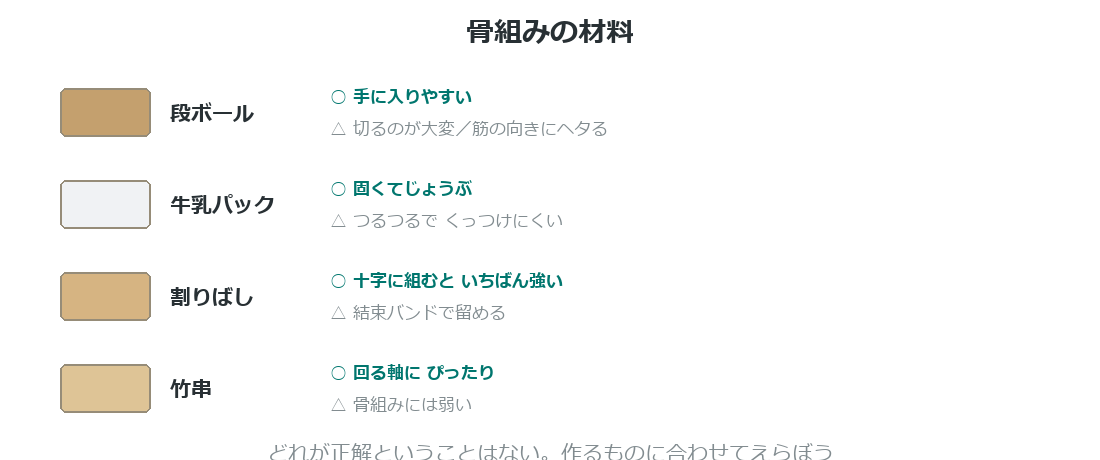
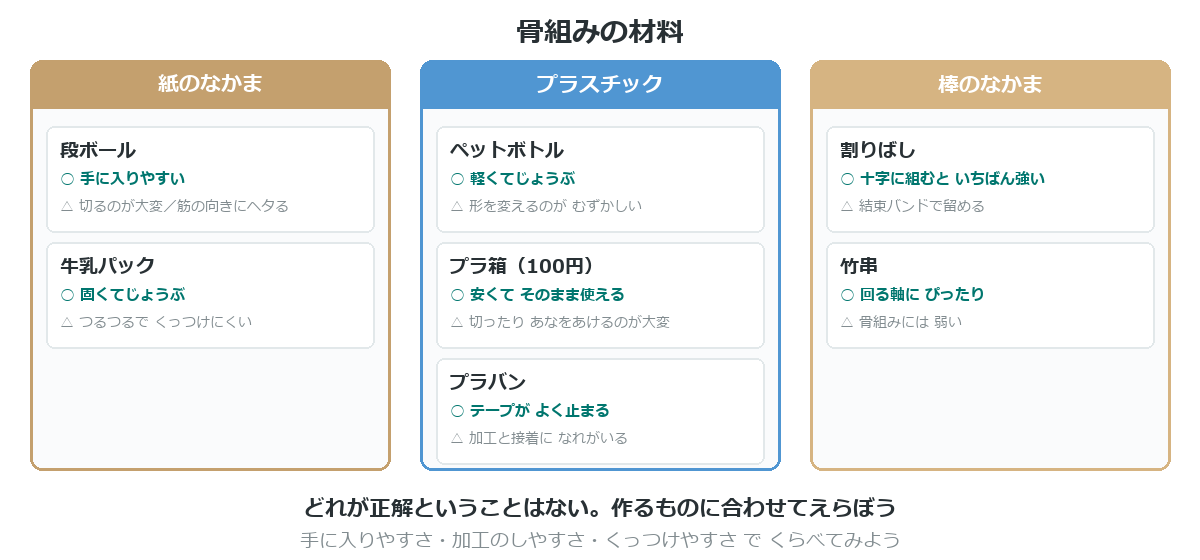
p5 の材料に プラスチック系3種を追加し、素材の系統別に整理した
追加した材料:
- ペットボトル … 軽くてじょうぶ／形の加工が難しい
- プラ箱（100円ショップ）… 安くてそのまま使える／切る・穴あけが難しい
- プラバン … テープがよく止まる／加工と接着に慣れが要る

7種類になったので、**素材の系統で3つに分けた**:
- 紙のなかま（段ボール・牛乳パック）
- プラスチック（ペットボトル・プラ箱・プラバン）
- 棒のなかま（割りばし・竹串）

系統で分けると「紙は切りやすいが弱い、プラは丈夫だが加工が大変、
棒は組むと強い」という傾向が見えてくる。単なる一覧より、
**えらぶときの手がかり**になる。

下部に「手に入りやすさ・加工のしやすさ・くっつけやすさ で くらべてみよう」
という比べ方の軸も添えた。

CURRICULUM.md の材料表も同じ構成に更新。

Changed region(s): [[0.0, 0.0304, 0.9891, 1.0], [0.1545, 0.4261, 0.2473, 0.487]]

diff --git a/docs/p5_frame/index.html b/docs/p5_frame/index.html
@@ -66,7 +66,7 @@
 
 # 材料をえらぶ
 
-![どれが正解ということはない](image/index/materials.png)
+![紙・プラスチック・棒。手に入りやすさと加工のしやすさでえらぶ](image/index/materials.png)
 
 ---
 

diff --git a/CURRICULUM.md b/CURRICULUM.md
@@ -227,10 +227,25 @@ e6_project を1章で扱うには大きすぎるため、**新セクション「
 
 ### p5 骨格 ─ 材料と留め方の知見
 
+**紙のなかま**
+
 | 材料 | 長所 | 短所 |
 |---|---|---|
 | 段ボール | 手に入りやすい | **切断が難しい／筋方向にヘタる** |
 | 牛乳パック | 固い | **つるつるで接着しにくい** |
+
+**プラスチック**
+
+| 材料 | 長所 | 短所 |
+|---|---|---|
+| ペットボトル | 軽くてじょうぶ | 形の加工が難しい |
+| プラ箱（100円ショップ） | 安価で そのまま使える | 切る・穴あけが難しい |
+| プラバン | **テープがよく止まる** | 加工と接着に慣れが要る |
+
+**棒のなかま**
+
+| 材料 | 長所 | 短所 |
+|---|---|---|
 | **割りばし ＋ 結束バンドで十字** | **構造材として最強** | — |
 | 竹串 | **回転軸に良い** | 構造材には弱い |
 
